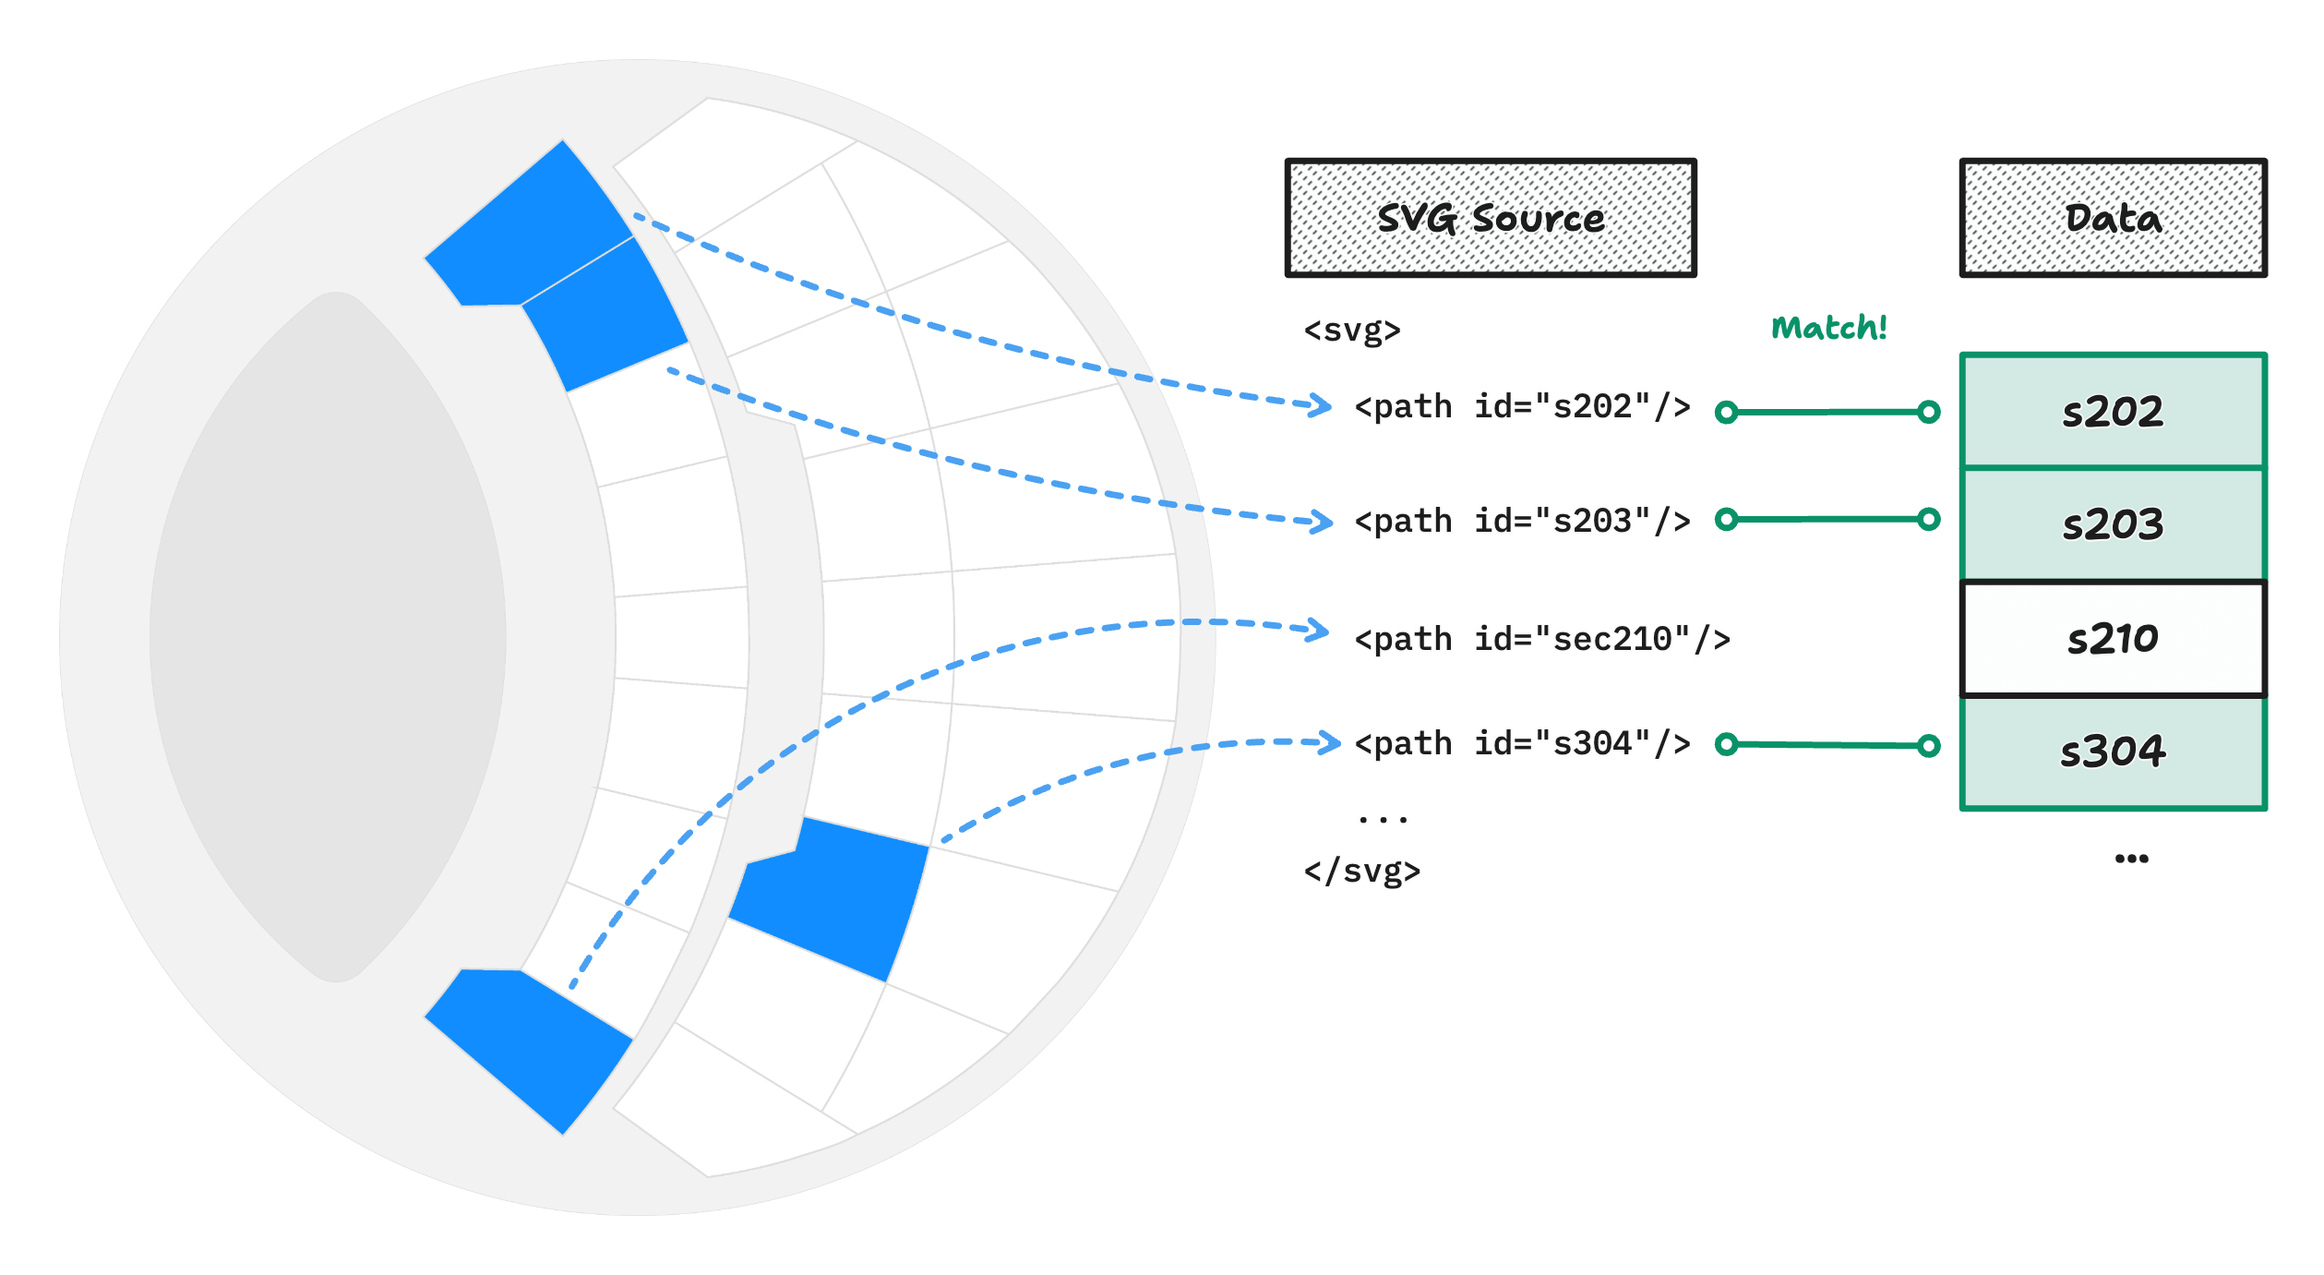
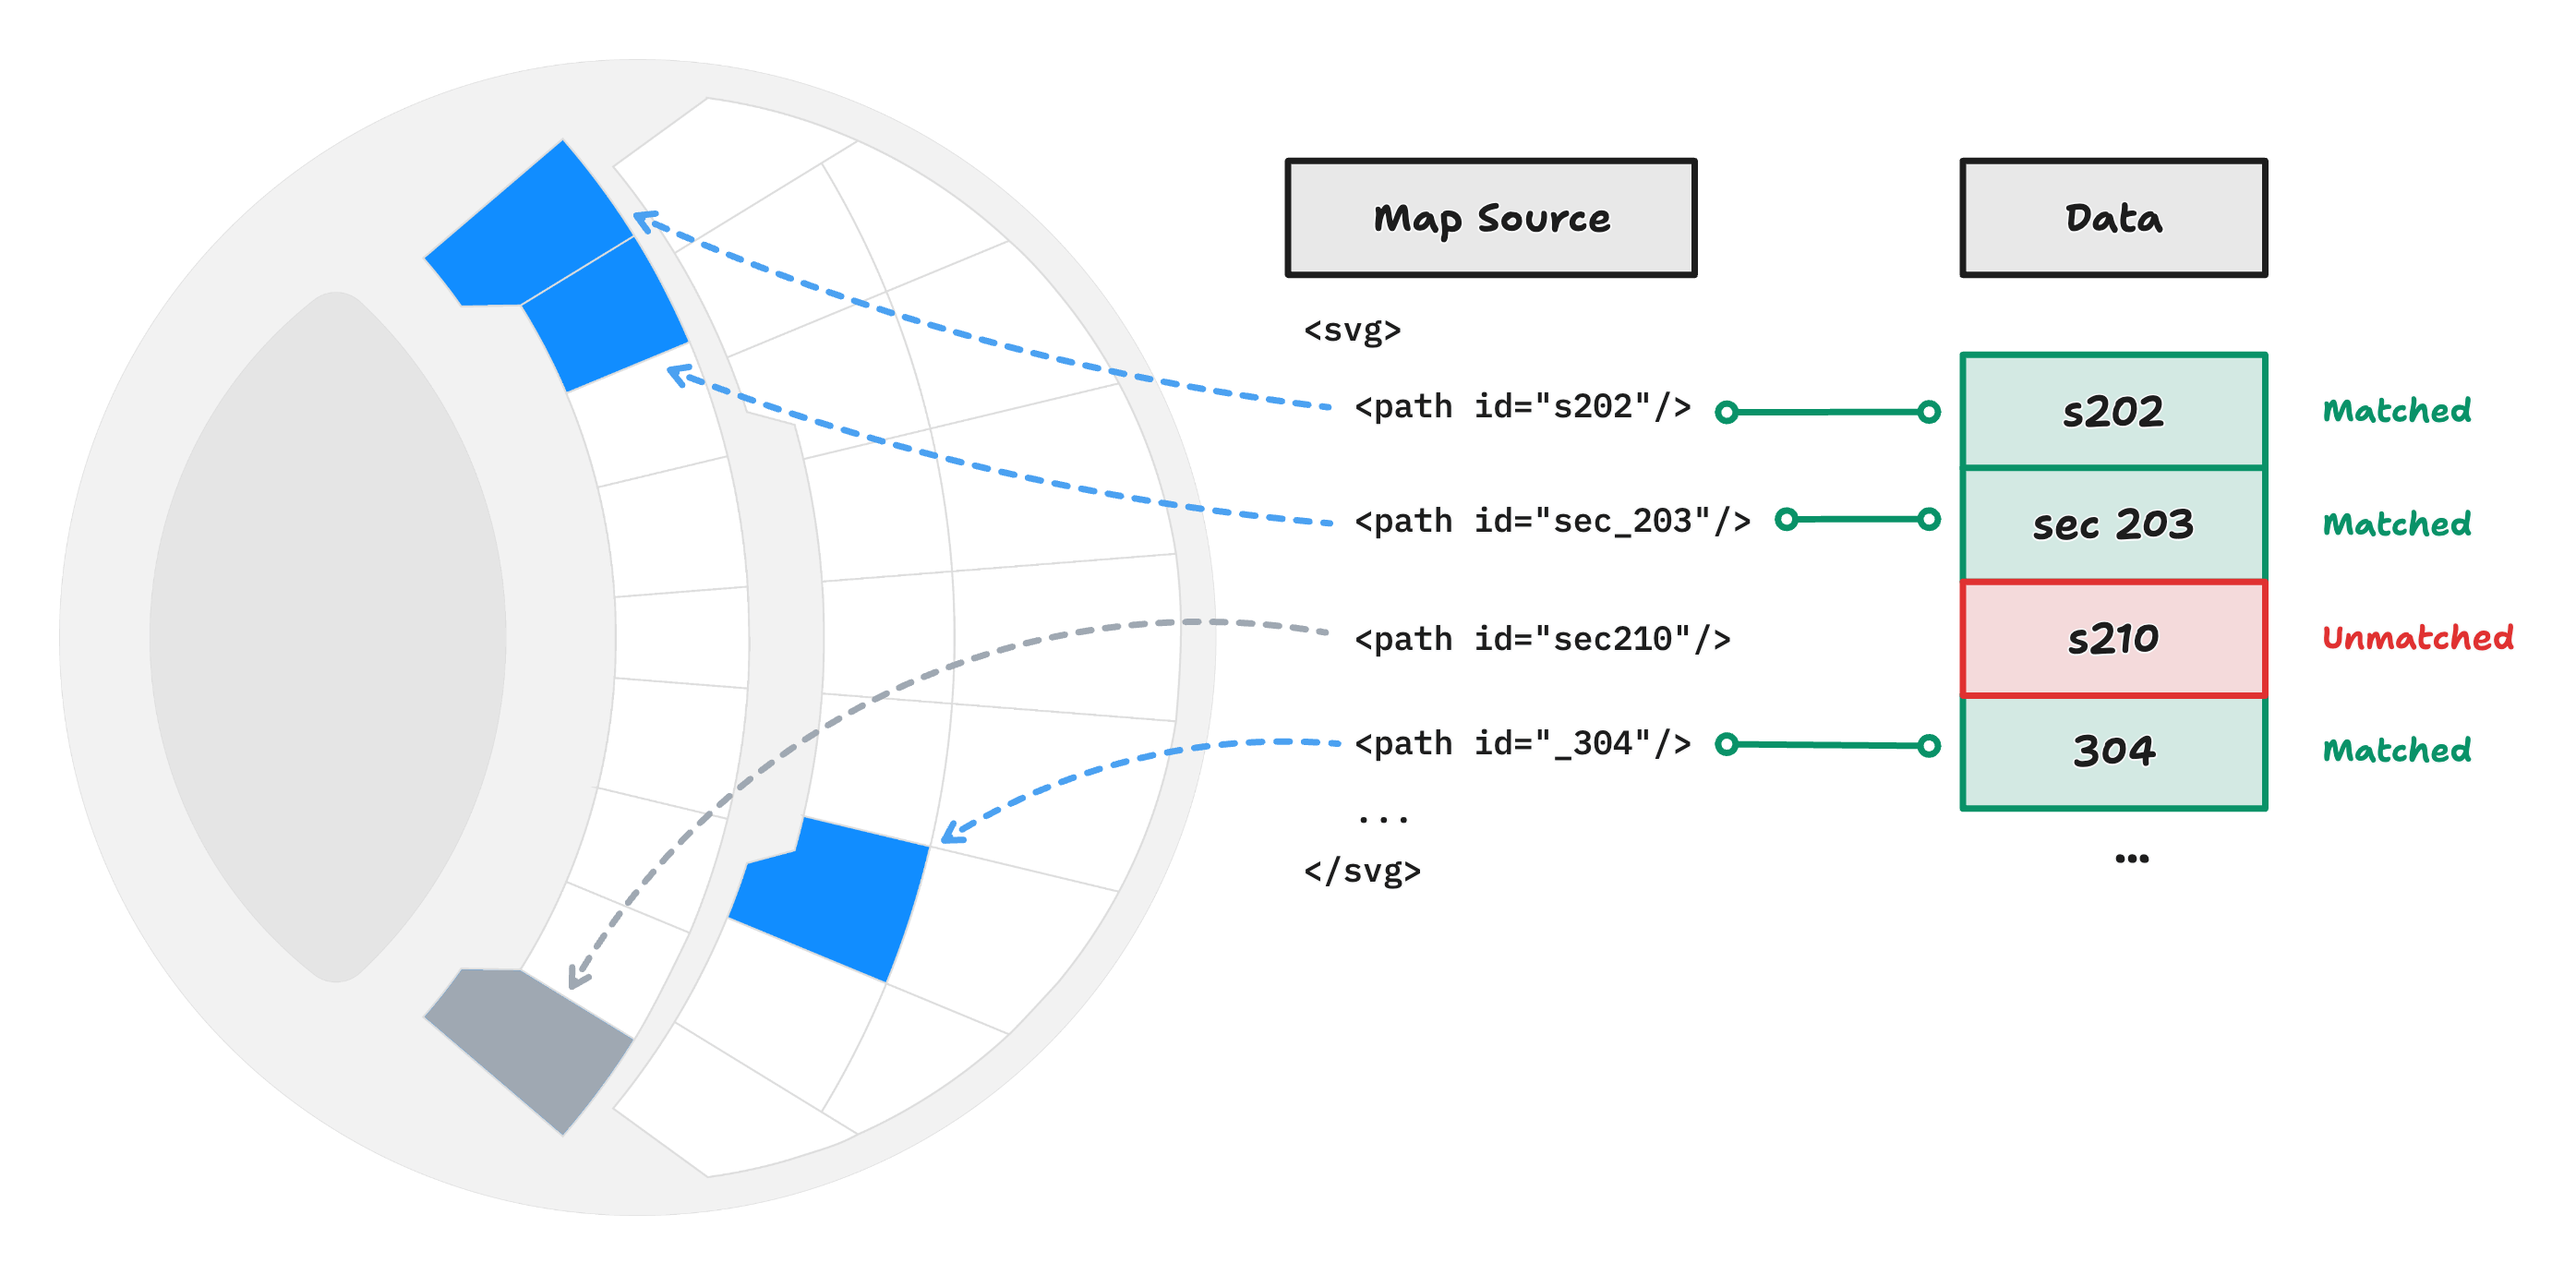
WIP Synoptic Panel docs

diff --git a/_myassets/_sass/_style.scss b/_myassets/_sass/_style.scss
@@ -1,1 +1,6 @@
 // Put your custom styles here
+table {
+    code {
+        white-space: nowrap !important;
+    }
+}

diff --git a/_mydocs/synoptic-panel/features/drill-mode.md b/_mydocs/synoptic-panel/features/drill-mode.md
@@ -3,7 +3,7 @@ layout:             page
 title:              Drill Mode
 published:          true
 date:               2024-05-10
-modified:           2024-05-27
+modified:           2024-05-29
 order:              /synoptic-panel/features/drill-mode
 next_reading:       true
 ---
@@ -61,12 +61,42 @@ The current Drill Path is visible in the visual header (if not disabled), and kn
 
 Here is how the Drill Path is built:
 
-- **The first element** of the path is the top-level column name, as defined in the dataset - note that renaming the column in the visual won't affect the path.
+- **The first element** of the path is the top-level column name, as defined in the dataset.
 - **The next elements** are:
     - In case of **drilling down**: the value of the selected data point for each level of the hierarchy, except the last one, which is not displayed.
     - In case of **expanding fields**: the name of the columns that has been expanded, as defined in the dataset, including the last level.
     - In case of **filtering**:
-        - If it is a single selection, it works like drilling down.
-        - If it is a multiple selection, it works like expanding fields.
+        - If it is a single selection, it's like when you drill down.
+        - If it is a multiple selection, it's like when you expand fields.
        
-Examples:
+> Note that renaming the columns in the visual data buckets won’t affect the path.
+
+### Examples
+
+Consider the following dataset:
+
+|Category|Sector|Seats      |
+|--------|------|-----------|
+|Economy |210   |SPH00847   |
+|Economy |210   |SPH00843   |
+|Regular |404   |SPH05186   |
+|Regular |304   |SPH04540   |
+|Best    |306   |SPH09053   |
+|...     |...   |...        |
+
+The Drill Path will be different depending on the actions you perform:
+
+|Action                                             |Drill Path                                 |
+|---------------------------------------------------|-------------------------------------------|
+|Drill down on the **Economy** category             |`Category > Economy`                       |
+| &nbsp; - Then, drill down on the **210** sector   |`Category > Economy > 210`                 |
+| &nbsp; - Or expand the fields                     |`Category > Economy > Sector > Seats`      |
+|    &nbsp; &nbsp; &nbsp; - Then, apply a single filter on **210**|`Category > Economy > 210`   |
+|   &nbsp; &nbsp; &nbsp; - Or apply multiple filters<sup>(1)</sup>|`Category > Economy > Sector > Seats`     |
+|Expand fields for a single level                   |`Category > Sector`                        |
+| &nbsp; - Then, drill down on the **404** sector   |`Category > Regular > 404`                 |
+|Expand all fields from the top                     |`Category > Sector > Seats`                |
+
+**Note:**
+
+1) For multiple filters, only valid filter values are considered. If only one valid value exists among several invalid ones, the path will be constructed using the valid value.

diff --git a/_mydocs/synoptic-panel/features/importing.md b/_mydocs/synoptic-panel/features/importing.md
@@ -4,7 +4,7 @@ title:              Importing Multiple Maps
 menu_title:         Importing Maps
 published:          true
 date:               2024-05-26
-modified:           2024-05-26
+modified:           2024-05-29
 order:              /synoptic-panel/features/importing
 ---
 
@@ -42,7 +42,7 @@ To automatically import multiple maps in Synoptic Panel, you need to provide a J
         "url": "https://example.com/map2.svg",
         "name": "Map 2",
         "mapSelector": "Store2",
-        "drillPath": ["Category"]
+        "drillPath": ["Category", "Sector"]
     },
     ... // Other maps
 ]
@@ -53,5 +53,8 @@ Here is a description of the fields:
 - **url**: The URL of the map file.
 - **name**: *(Optional)* The name of the map. This is the name that will be displayed in the visual. If not provided, the name of the file will be used.
 - **mapSelector**: *(Optional)* The value of the column bound as map selector. This is the column that will be used to switch between the maps. See more in the [Filtering Maps](../features/filtering-maps.md) section.
-- **drillPath**: *(Optional)* This is an array of values used to build the **Drill Path**, which is used to determine the current drill level of the visual. This is a useful way to quickly assign different maps to different levels, but requires to know the exact values of the drill path. See how the drill path is built in the [Drill Mode](/drill-mode.md#the-drill-path) section.
+- **drillPath**: *(Optional)* This is an array of values used to build the **Drill Path**, which represent the drill level of the visual. This is a useful way to quickly assign different maps to different levels, but requires to know the exact values of the drill path components. See how the drill path is built in the [Drill Mode](/drill-mode.md#the-drill-path) section.
  If not provided, each imported URL will be assigned to the current drill level.
+
+    > Note the Drill Path is displayed as a breadcrumb in the visual header. To define the `drillPath` value for the import file, you need to concatenate the single elements of the breadcrumb in the same order as they appear in the visual.  
+    E.g. `Category > Sector` becomes `["Category", "Sector"]`.

diff --git a/_mydocs/synoptic-panel/concepts/data-binding.md b/_mydocs/synoptic-panel/concepts/data-binding.md
@@ -3,7 +3,7 @@ layout:             page
 title:              Data Binding
 published:          true
 date:               2024-05-10
-modified:           2024-05-26
+modified:           2024-05-28
 order:              /synoptic-panel/concepts/03
 next_reading:       true
 ---
@@ -41,12 +41,19 @@ Each area of a map can be linked to a specific data point ([what is a data point
 
 Automatic binding takes place when the `id` of a map area matches one of the values of the ***Categories*** column. If the match is successful, the area status is set to **"Matched"**, is internally linked to the matched data point, and becomes interactive and customizable by the user. If the match is not successful, the area status is set as **"Unmatched"**.
 
-**Matching is case-insensitive and ignores leading/trailing spaces and the first character, if it's an underscore and is followed by a number.**
+Matching is done according to the following rules:
+- Characters are compared case-insensitively.
+- Leading and trailing spaces are ignored.
+- Internal spaces are replaced with underscores (`_`).
+- The first character is ignored if it is an underscore (`_`) followed by a number.
+- Special characters escaped with `_xHH_` are decoded. (e.g., *"_x24_"* is decoded as **$**).
 
-For example: if you have a column with the values *"Area1"*, *"Area2 "*, and *"3area"*, and the map has areas with the identifiers `area1`, `Area2`, and `_3area`, the automatic binding will be successful for all of them.
-
-<img src="images/auto-binding.png" class="naked">
-
+<figure>
+    <img src="images/auto-binding.png" class="naked">
+    <figcaption>
+        In this example, the paths with the id "s202", "sec_203", and "_304" match the data points "s202", "sec 203", and "304", respectively, while the path with "sec210" does not match any data point.
+    </figcaption>
+</figure>
 
 ### Manual Binding
 

diff --git a/_mydocs/synoptic-panel/concepts/maps/svg-format.md b/_mydocs/synoptic-panel/concepts/maps/svg-format.md
@@ -3,7 +3,7 @@ layout:             page
 title:              SVG Format
 published:          true
 date:               2024-05-10
-modified:           2024-05-26
+modified:           2024-05-28
 order:              /synoptic-panel/concepts/maps/01
 next_reading:       true
 ---
@@ -75,7 +75,7 @@ table th:nth-of-type(2) { /* Target */
 |`data-okviz-svg-author`    |`<svg>`                |*(String)* It is used to show the map author name in the visual.|
 |`data-okviz-svg-copyright` |`<svg>`                |*(String)* It is used to show the map copyright in the visual.|
 |`data-okviz-autofetch`     |`<svg>`                |*(Boolean)* Enables the [Autofetch mode](../../features/drill-mode.md#autofetch).|
-|`data-okviz-no-labels`     |`<svg>`                |*(Boolean)* Turn off all map labels.|   
+|`data-okviz-no-labels`     |`<svg>` or any area    |*(Boolean)* Turn off all map labels or the labels on the target area.|   
 
 
 Example:

diff --git a/_mydocs/synoptic-panel/changelog.md b/_mydocs/synoptic-panel/changelog.md
@@ -3,17 +3,17 @@ layout:             page
 title:              Changelog
 published:          true
 date:               2024-05-10
-modified:           2024-05-27
+modified:           2024-05-29
 order:              /synoptic-panel/{99}
 toc_max:            2
 ---
 This page contains a quick summary of versions and notable changes of Synoptic Panel.  
 Synoptic Panel uses **Power BI Custom Visuals API v5.9.0**.
 
-## v2.0.1
-**Released:** 2024-05-28
+## v2.0.0
+**Released:** 2024-05-29
 
-Initial private beta release.
+Initial private beta release of the new version of Synoptic Panel.
 
 ## Previous Versions
 
